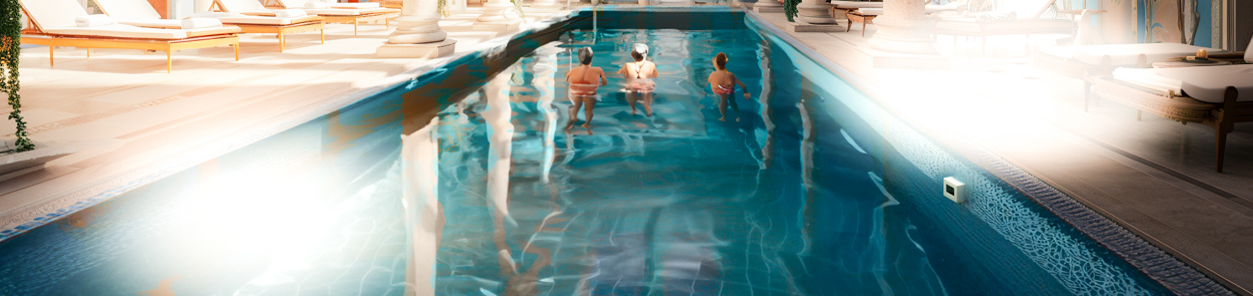
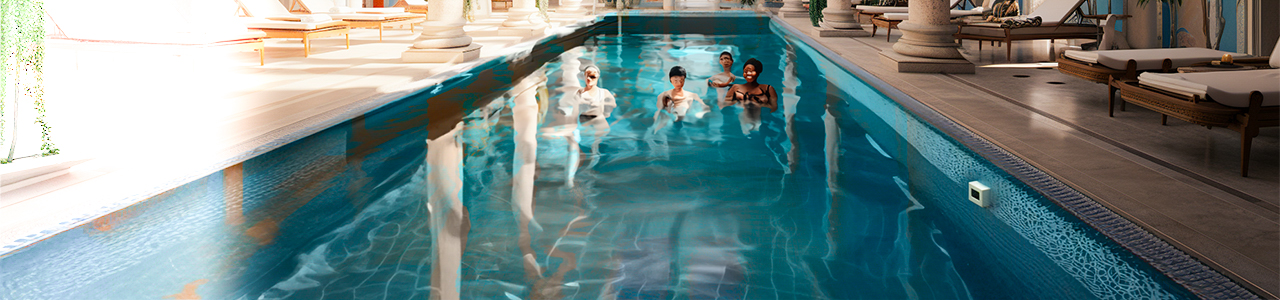
Public Pool redesign

diff --git a/ZeusPalace/Modules/PoolControl/PublicPoolForm.Designer.cs b/ZeusPalace/Modules/PoolControl/PublicPoolForm.Designer.cs
@@ -28,7 +28,6 @@
         /// </summary>
         private void InitializeComponent()
         {
-            System.ComponentModel.ComponentResourceManager resources = new System.ComponentModel.ComponentResourceManager(typeof(PublicPoolForm));
             ((System.ComponentModel.ISupportInitialize)(this.pictureBoxSensorToggle)).BeginInit();
             ((System.ComponentModel.ISupportInitialize)(this.trackBarTemperatureLevel)).BeginInit();
             ((System.ComponentModel.ISupportInitialize)(this.pictureBoxSensor)).BeginInit();
@@ -45,94 +44,99 @@
             // 
             // labelWaterLevel
             // 
-            this.labelWaterLevel.Location = new System.Drawing.Point(162, 624);
-            this.labelWaterLevel.Text = "150 cm";
+            this.labelWaterLevel.Location = new System.Drawing.Point(40, 624);
             // 
             // pictureBoxSensorToggle
             // 
-            this.pictureBoxSensorToggle.Location = new System.Drawing.Point(980, 471);
+            this.pictureBoxSensorToggle.Location = new System.Drawing.Point(123, 262);
             // 
-            // labelUsername
+            // label1
             // 
-            this.label1.Location = new System.Drawing.Point(175, 499);
+            this.label1.Location = new System.Drawing.Point(53, 499);
             // 
             // verticalProgressBarTemperature
             // 
-            this.verticalProgressBarTemperature.Location = new System.Drawing.Point(267, 175);
+            this.verticalProgressBarTemperature.Location = new System.Drawing.Point(147, 356);
+            this.verticalProgressBarTemperature.Size = new System.Drawing.Size(20, 98);
             // 
             // labelSensor
             // 
-            this.labelSensor.Location = new System.Drawing.Point(875, 431);
+            this.labelSensor.Location = new System.Drawing.Point(18, 222);
             // 
             // trackBarTemperatureLevel
             // 
-            this.trackBarTemperatureLevel.Location = new System.Drawing.Point(216, 182);
+            this.trackBarTemperatureLevel.Location = new System.Drawing.Point(62, 360);
+            this.trackBarTemperatureLevel.Size = new System.Drawing.Size(45, 101);
             // 
             // pictureBoxSensor
             // 
-            this.pictureBoxSensor.Location = new System.Drawing.Point(930, 468);
+            this.pictureBoxSensor.Location = new System.Drawing.Point(73, 259);
             // 
             // trackBarWaterLevel
             // 
-            this.trackBarWaterLevel.Location = new System.Drawing.Point(184, 545);
-            this.trackBarWaterLevel.Value = 150;
+            this.trackBarWaterLevel.Location = new System.Drawing.Point(62, 545);
             // 
-            // labelPassword
+            // label2
             // 
-            this.label2.Location = new System.Drawing.Point(180, 121);
+            this.label2.Location = new System.Drawing.Point(27, 322);
+            this.label2.Size = new System.Drawing.Size(198, 26);
+            this.label2.Text = "Θερμοκρασία νερού";
             // 
             // labelTemperature
             // 
-            this.labelTemperature.Location = new System.Drawing.Point(293, 225);
+            this.labelTemperature.Location = new System.Drawing.Point(51, 457);
+            this.labelTemperature.Click += new System.EventHandler(this.labelTemperature_Click);
             // 
             // verticalProgressBarWaterLevel
             // 
-            this.verticalProgressBarWaterLevel.Location = new System.Drawing.Point(234, 528);
-            this.verticalProgressBarWaterLevel.Value = 150;
+            this.verticalProgressBarWaterLevel.Location = new System.Drawing.Point(119, 528);
+            this.verticalProgressBarWaterLevel.Size = new System.Drawing.Size(76, 120);
             // 
             // panelAlarm
             // 
-            this.panelAlarm.Location = new System.Drawing.Point(940, 208);
-            this.panelAlarm.Size = new System.Drawing.Size(130, 77);
+            this.panelAlarm.Location = new System.Drawing.Point(23, 121);
+            this.panelAlarm.Size = new System.Drawing.Size(193, 77);
             // 
             // panelAlarmMode
             // 
-            this.panelAlarmMode.Location = new System.Drawing.Point(924, 283);
+            this.panelAlarmMode.ForeColor = System.Drawing.Color.FromArgb(((int)(((byte)(51)))), ((int)(((byte)(51)))), ((int)(((byte)(51)))));
+            this.panelAlarmMode.Location = new System.Drawing.Point(35, 38);
             // 
             // pictureBoxSensorDisabled
             // 
-            this.pictureBoxSensorDisabled.Image = ((System.Drawing.Image)(resources.GetObject("pictureBoxSensorDisabled.Image")));
-            this.pictureBoxSensorDisabled.Location = new System.Drawing.Point(943, 542);
-            this.pictureBoxSensorDisabled.Size = new System.Drawing.Size(22, 24);
+            this.pictureBoxSensorDisabled.Image = global::ZeusPalace.Properties.Resources.public_sensor_enabled;
+            this.pictureBoxSensorDisabled.Location = new System.Drawing.Point(969, 548);
+            this.pictureBoxSensorDisabled.Size = new System.Drawing.Size(12, 12);
             this.pictureBoxSensorDisabled.Visible = false;
             // 
             // pictureBoxAlarmEnabled
             // 
             this.pictureBoxAlarmEnabled.Image = global::ZeusPalace.Properties.Resources.public_alarm_enabled;
-            this.pictureBoxAlarmEnabled.Location = new System.Drawing.Point(889, 130);
+            this.pictureBoxAlarmEnabled.Location = new System.Drawing.Point(915, 131);
             this.pictureBoxAlarmEnabled.Size = new System.Drawing.Size(32, 64);
             // 
             // pictureBoxPool
             // 
             this.pictureBoxPool.Image = global::ZeusPalace.Properties.Resources.public_pool_2;
-            this.pictureBoxPool.Location = new System.Drawing.Point(0, 364);
-            this.pictureBoxPool.Size = new System.Drawing.Size(1253, 296);
+            this.pictureBoxPool.Location = new System.Drawing.Point(0, 360);
+            this.pictureBoxPool.Size = new System.Drawing.Size(1280, 300);
             // 
             // pictureBoxAlarm
             // 
-            this.pictureBoxAlarm.Location = new System.Drawing.Point(44, 3);
+            this.pictureBoxAlarm.Location = new System.Drawing.Point(50, 34);
             // 
             // labelAlarm
             // 
-            this.labelAlarm.Location = new System.Drawing.Point(3, 46);
+            this.labelAlarm.Location = new System.Drawing.Point(29, 1);
             // 
             // pictureBoxAlarmToggle
             // 
-            this.pictureBoxAlarmToggle.Location = new System.Drawing.Point(8, 10);
+            this.pictureBoxAlarmToggle.Location = new System.Drawing.Point(100, 44);
             // 
             // panelBackground
             // 
             this.panelBackground.BackgroundImage = global::ZeusPalace.Properties.Resources.public_pool;
+            this.panelBackground.Location = new System.Drawing.Point(1, 0);
             // 
             // PublicPoolForm
             // 

diff --git a/ZeusPalace/Modules/PoolControl/PoolForm.Designer.cs b/ZeusPalace/Modules/PoolControl/PoolForm.Designer.cs
@@ -129,6 +129,7 @@
             // 
             this.label5.AutoSize = true;
             this.label5.Font = new System.Drawing.Font("Palatino Linotype", 9.75F, System.Drawing.FontStyle.Bold, System.Drawing.GraphicsUnit.Point, ((byte)(0)));
+            this.label5.ForeColor = System.Drawing.Color.FromArgb(((int)(((byte)(51)))), ((int)(((byte)(51)))), ((int)(((byte)(51)))));
             this.label5.Location = new System.Drawing.Point(21, 5);
             this.label5.Name = "label5";
             this.label5.Size = new System.Drawing.Size(98, 18);
@@ -139,6 +140,7 @@
             // 
             this.radioButtonEnabledUntilTurnoff.AutoSize = true;
             this.radioButtonEnabledUntilTurnoff.Font = new System.Drawing.Font("Palatino Linotype", 9.75F, System.Drawing.FontStyle.Bold, System.Drawing.GraphicsUnit.Point, ((byte)(0)));
+            this.radioButtonEnabledUntilTurnoff.ForeColor = System.Drawing.Color.FromArgb(((int)(((byte)(51)))), ((int)(((byte)(51)))), ((int)(((byte)(51)))));
             this.radioButtonEnabledUntilTurnoff.Location = new System.Drawing.Point(4, 28);
             this.radioButtonEnabledUntilTurnoff.Name = "radioButtonEnabledUntilTurnoff";
             this.radioButtonEnabledUntilTurnoff.Size = new System.Drawing.Size(185, 22);
@@ -165,6 +167,7 @@
             this.radioButtonEnabledUntil.BackColor = System.Drawing.Color.Transparent;
             this.radioButtonEnabledUntil.Checked = true;
             this.radioButtonEnabledUntil.Font = new System.Drawing.Font("Palatino Linotype", 9.75F, System.Drawing.FontStyle.Bold, System.Drawing.GraphicsUnit.Point, ((byte)(0)));
+            this.radioButtonEnabledUntil.ForeColor = System.Drawing.Color.FromArgb(((int)(((byte)(51)))), ((int)(((byte)(51)))), ((int)(((byte)(51)))));
             this.radioButtonEnabledUntil.Location = new System.Drawing.Point(4, 51);
             this.radioButtonEnabledUntil.Name = "radioButtonEnabledUntil";
             this.radioButtonEnabledUntil.Size = new System.Drawing.Size(61, 22);
@@ -206,6 +209,7 @@
             this.labelTemperature.AutoSize = true;
             this.labelTemperature.BackColor = System.Drawing.Color.Transparent;
             this.labelTemperature.Font = new System.Drawing.Font("Palatino Linotype", 14.25F, System.Drawing.FontStyle.Bold, System.Drawing.GraphicsUnit.Point, ((byte)(0)));
+            this.labelTemperature.ForeColor = System.Drawing.Color.FromArgb(((int)(((byte)(51)))), ((int)(((byte)(51)))), ((int)(((byte)(51)))));
             this.labelTemperature.Location = new System.Drawing.Point(260, 320);
             this.labelTemperature.Name = "labelTemperature";
             this.labelTemperature.Size = new System.Drawing.Size(62, 26);
@@ -217,6 +221,7 @@
             this.label2.AutoSize = true;
             this.label2.BackColor = System.Drawing.Color.Transparent;
             this.label2.Font = new System.Drawing.Font("Palatino Linotype", 14.25F, System.Drawing.FontStyle.Bold, System.Drawing.GraphicsUnit.Point, ((byte)(0)));
+            this.label2.ForeColor = System.Drawing.Color.FromArgb(((int)(((byte)(51)))), ((int)(((byte)(51)))), ((int)(((byte)(51)))));
             this.label2.Location = new System.Drawing.Point(229, 140);
             this.label2.Name = "label2";
             this.label2.Size = new System.Drawing.Size(140, 52);
@@ -267,6 +272,7 @@
             this.labelSensor.AutoSize = true;
             this.labelSensor.BackColor = System.Drawing.Color.Transparent;
             this.labelSensor.Font = new System.Drawing.Font("Palatino Linotype", 14.25F, System.Drawing.FontStyle.Bold, System.Drawing.GraphicsUnit.Point, ((byte)(0)));
+            this.labelSensor.ForeColor = System.Drawing.Color.FromArgb(((int)(((byte)(51)))), ((int)(((byte)(51)))), ((int)(((byte)(51)))));
             this.labelSensor.Location = new System.Drawing.Point(565, 208);
             this.labelSensor.Name = "labelSensor";
             this.labelSensor.Size = new System.Drawing.Size(204, 26);
@@ -288,6 +294,7 @@
             this.label1.AutoSize = true;
             this.label1.BackColor = System.Drawing.Color.Transparent;
             this.label1.Font = new System.Drawing.Font("Palatino Linotype", 14.25F, System.Drawing.FontStyle.Bold, System.Drawing.GraphicsUnit.Point, ((byte)(0)));
+            this.label1.ForeColor = System.Drawing.Color.FromArgb(((int)(((byte)(51)))), ((int)(((byte)(51)))), ((int)(((byte)(51)))));
             this.label1.Location = new System.Drawing.Point(101, 468);
             this.label1.Name = "label1";
             this.label1.Size = new System.Drawing.Size(163, 26);
@@ -311,6 +318,7 @@
             this.labelWaterLevel.AutoSize = true;
             this.labelWaterLevel.BackColor = System.Drawing.Color.Transparent;
             this.labelWaterLevel.Font = new System.Drawing.Font("Palatino Linotype", 14.25F, System.Drawing.FontStyle.Bold, System.Drawing.GraphicsUnit.Point, ((byte)(0)));
+            this.labelWaterLevel.ForeColor = System.Drawing.Color.FromArgb(((int)(((byte)(51)))), ((int)(((byte)(51)))), ((int)(((byte)(51)))));
             this.labelWaterLevel.Location = new System.Drawing.Point(91, 604);
             this.labelWaterLevel.Name = "labelWaterLevel";
             this.labelWaterLevel.Size = new System.Drawing.Size(73, 26);
@@ -343,6 +351,7 @@
             this.labelAlarm.AutoSize = true;
             this.labelAlarm.BackColor = System.Drawing.Color.Transparent;
             this.labelAlarm.Font = new System.Drawing.Font("Palatino Linotype", 14.25F, System.Drawing.FontStyle.Bold, System.Drawing.GraphicsUnit.Point, ((byte)(0)));
+            this.labelAlarm.ForeColor = System.Drawing.Color.FromArgb(((int)(((byte)(51)))), ((int)(((byte)(51)))), ((int)(((byte)(51)))));
             this.labelAlarm.Location = new System.Drawing.Point(3, 80);
             this.labelAlarm.Name = "labelAlarm";
             this.labelAlarm.Size = new System.Drawing.Size(126, 26);

diff --git a/ZeusPalace/Modules/PoolControl/PublicPoolForm.cs b/ZeusPalace/Modules/PoolControl/PublicPoolForm.cs
@@ -25,5 +25,10 @@ namespace ZeusPalace.Modules.PoolControl
                 }
             }
         }
+
+        private void labelTemperature_Click(object sender, EventArgs e)
+        {
+
+        }
     }
 }
